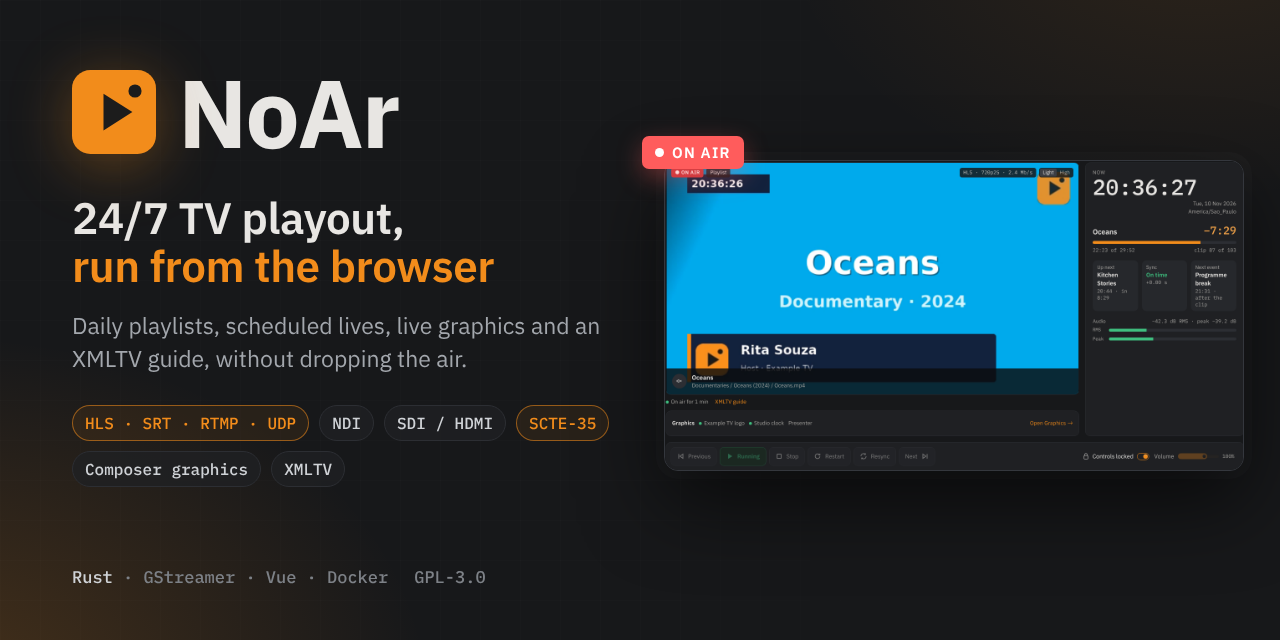
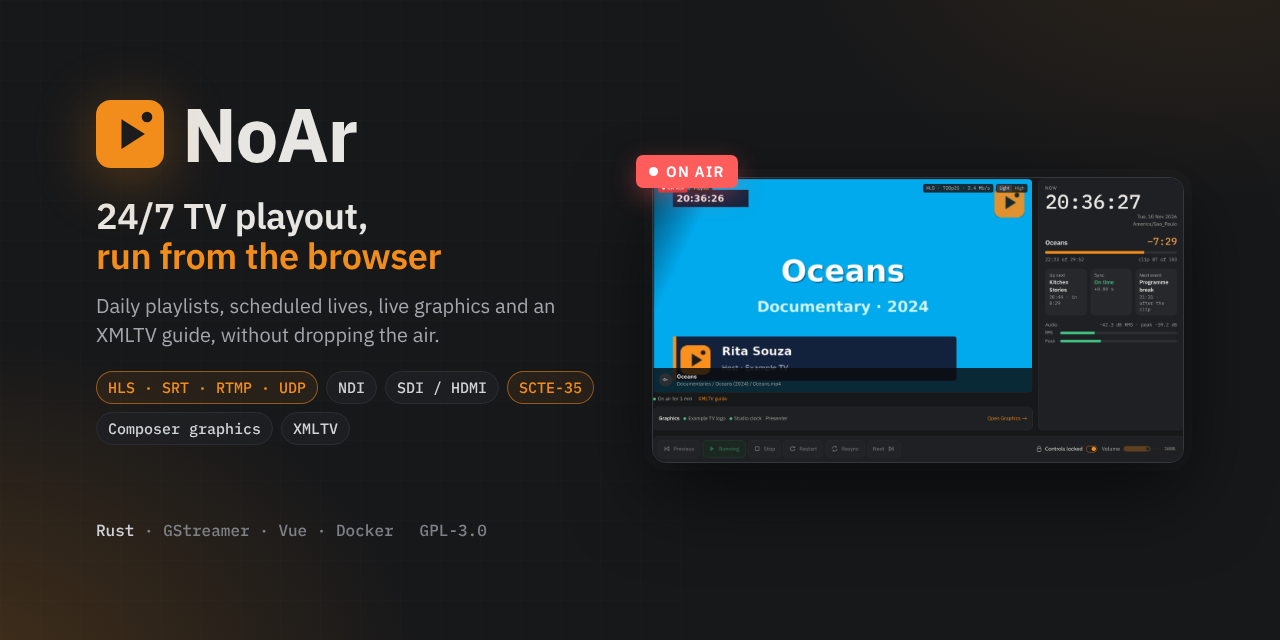
Keep the social preview inside GitHub's safe area
GitHub crops the repository card, and its repo card template keeps what
matters 80 px inside each edge. The logo, footer and screenshot reached
past that line. Lay them out inside x 80-1200, y 80-560, and make the
render script fail when an element leaves that area.

Claude-Session: https://claude.ai/code/session_01TMowBAVNii8r8QQWjMJoUz

diff --git a/qa/screenshots/social-preview.html b/qa/screenshots/social-preview.html
@@ -1,5 +1,7 @@
 <!doctype html>
-<!-- GitHub social preview (1280x640). Render with: node qa/screenshots/social-preview.cjs -->
+<!-- GitHub social preview (1280x640). Render with: node qa/screenshots/social-preview.cjs
+     GitHub crops the card: keep everything that matters inside x 80-1200, y 80-560
+     (its repo card template); the script checks it. Only the background may bleed. -->
 <html lang="en">
     <head>
         <meta charset="utf-8" />
@@ -74,33 +76,33 @@
             }
             .copy {
                 position: absolute;
-                left: 72px;
-                top: 64px;
-                width: 560px;
+                left: 96px;
+                top: 96px;
+                width: 524px;
                 display: flex;
                 flex-direction: column;
             }
             .brand {
                 display: flex;
                 align-items: center;
-                gap: 22px;
+                gap: 18px;
             }
             .brand svg {
-                width: 84px;
-                height: 84px;
+                width: 68px;
+                height: 68px;
                 filter: drop-shadow(0 10px 30px rgba(242, 140, 27, 0.35));
             }
             .brand h1 {
                 margin: 0;
-                font-size: 96px;
+                font-size: 76px;
                 line-height: 1;
                 font-weight: 700;
                 letter-spacing: -0.02em;
             }
             .tag {
-                margin: 34px 0 0;
-                font-size: 44px;
-                line-height: 1.1;
+                margin: 24px 0 0;
+                font-size: 36px;
+                line-height: 1.12;
                 font-weight: 600;
                 letter-spacing: -0.01em;
             }
@@ -109,24 +111,24 @@
                 color: var(--accent);
             }
             .desc {
-                margin: 18px 0 0;
-                font-size: 23px;
+                margin: 14px 0 0;
+                font-size: 20px;
                 line-height: 1.45;
                 color: var(--muted);
-                max-width: 530px;
+                max-width: 500px;
             }
             .chips {
                 display: flex;
                 flex-wrap: wrap;
-                gap: 10px;
-                margin-top: 30px;
-                max-width: 560px;
+                gap: 8px;
+                margin-top: 22px;
+                max-width: 524px;
             }
             .chip {
                 font:
-                    500 16px PlexMono,
+                    500 15px PlexMono,
                     monospace;
-                padding: 7px 12px;
+                padding: 6px 11px;
                 border: 1px solid var(--line);
                 border-radius: 999px;
                 color: #cfd2d6;
@@ -139,10 +141,10 @@
             }
             .foot {
                 position: absolute;
-                left: 72px;
-                bottom: 52px;
+                left: 96px;
+                bottom: 100px;
                 font:
-                    500 17px PlexMono,
+                    500 16px PlexMono,
                     monospace;
                 color: #7d8187;
                 display: flex;
@@ -154,10 +156,10 @@
             }
             .shot {
                 position: absolute;
-                left: 664px;
-                top: 160px;
-                width: 580px;
-                height: 311.3px;
+                left: 652px;
+                top: 177px;
+                width: 532px;
+                height: 285.6px;
                 border-radius: 14px;
                 overflow: hidden;
                 border: 1px solid #34373d;
@@ -169,15 +171,15 @@
             .shot img {
                 position: absolute;
                 display: block;
-                width: 602.6px;
-                left: -8.4px;
-                top: -30.1px;
+                width: 552.7px;
+                left: -7.7px;
+                top: -27.6px;
             }
 
             .onair {
                 position: absolute;
-                left: 642px;
-                top: 136px;
+                left: 636px;
+                top: 155px;
                 z-index: 2;
                 display: flex;
                 align-items: center;

diff --git a/qa/screenshots/README.md b/qa/screenshots/README.md
@@ -127,5 +127,8 @@ node qa/screenshots/social-preview.cjs --chromium /usr/bin/chromium
 ```
 
 It writes `docs/images/social-preview.png` and fails if the screenshot or a
-font file is missing. GitHub has no API for the card: upload the PNG in the
+font file is missing, or if any text, chip or the screenshot leaves GitHub's
+safe area: GitHub crops the card, so its repo card template keeps everything
+that matters 80 px inside each edge (x 80–1200, y 80–560). Only the background
+may reach the edges. GitHub has no API for the card: upload the PNG in the
 repository's **Settings › General › Social preview**.
